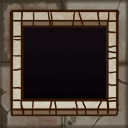
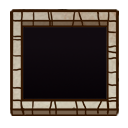
trapdoor

Changed region(s): [[0.0, 0.0, 1.0, 1.0]]

diff --git a/gadgets.js b/gadgets.js
@@ -206,3 +206,102 @@ function makeKey(pos) {
     draw
   };
 }
+
+
+function makeTrapdoor(pos) {
+  let age = 0;
+	let frame = 0;
+	let openTime =0;
+  let {
+    getPos,
+    setPos,
+    blocking
+  } = makeEntity(pos)
+
+  function draw(ctx, lctx) {    
+    let [x, y] = getPos();
+
+    ctx.drawSprite(Assets.trapdoor, x, y);
+    ctx.drawSprite(Assets.doorHatch, x, y,frame);
+
+  }
+
+  function move() {
+    let p = getPos();
+    age += 1;
+
+		if (openTime==0) {
+			if (vdistance(p, world.player.getPos()) < 128) {
+				openTime=age;
+				playSound([Assets.TrapDoorOpen1,Assets.TrapDoorOpen2]);
+			}
+		} else {
+			openAge= age-openTime;
+			frame= Math.min(3,Math.floor(openAge/10));
+		}
+	}
+
+	let result={
+    getPos,
+    setPos,
+    move,
+    blocking,
+    draw
+	};
+	
+  let [tx, ty] = gameToTile(pos);
+
+  //this is bad don't blindly put in 9 tiles,  fix when not tired
+  for (let x = -1; x < 2; x++) {
+    for (let y = -1; y < 2; y++) {
+      world.tileAt([tx + x, ty + y]).contents.push(result);
+    }
+  }
+
+
+  return result; 
+}
+
+
+
+
+function makeGate(pos) {
+  let age = 0;
+  let frame = 0;
+  let collected = false;
+  let {
+    getPos,
+    setPos,
+    blocking
+  } = makeEntity(pos)
+
+  function draw(ctx, lctx) {
+    if (collected) return
+    let [x, y] = getPos();
+
+    ctx.drawSprite(Assets.match, x, y);
+
+  }
+
+  function move() {
+    if (collected) return;
+
+    let p = getPos();
+
+    age += 1;
+
+    if (vdistance(p, world.player.getPos()) < 64) {
+      playSound(Assets.KeyPickup);
+      inventory.keys += 1;
+      collected = true;
+    }
+  }
+  return {
+    getPos,
+    setPos,
+    move,
+    blocking,
+    draw
+  };
+}
+

diff --git a/Assets.js b/Assets.js
@@ -17,7 +17,8 @@ imageList = [
   "rat/ratWalkLeft.png|2|1|[32,56]",
   "rat/ratWalkRight.png|2|1|[32,56]",
   "rat/ratIdle.png|2|1|[32,56]",
-
+  "trapdoor/trapdoor.png",
+  "trapdoor/doorHatch.png|4|1|[64,128]",
   "match.png|1",
   "key.png|1",
   "particle.png|1",
@@ -100,10 +101,14 @@ function imageDetailsFromString(s) {
 }
 
 function playSound(buffer, offset = 0) {
+  if (Array.isArray(buffer)) {
+    return playSound(buffer[randInt(buffer.length)],offset);  
+  }
   var source = audioContext.createBufferSource();
   source.buffer = buffer;
   source.connect(audioContext.destination);
   source.start(0, offset);
+  return source;
 }
 
 var audioLoops = [];

diff --git a/main.js b/main.js
@@ -227,6 +227,7 @@ function init() {
     entities.push(makeBrazier([640, 420]));
     entities.push(makeRat([400, 520]));
 
+    entities.push(makeTrapdoor([418,928]));
     let key = makeKey([1024, 330]);
     entities.push(key);
     world.player = player;
